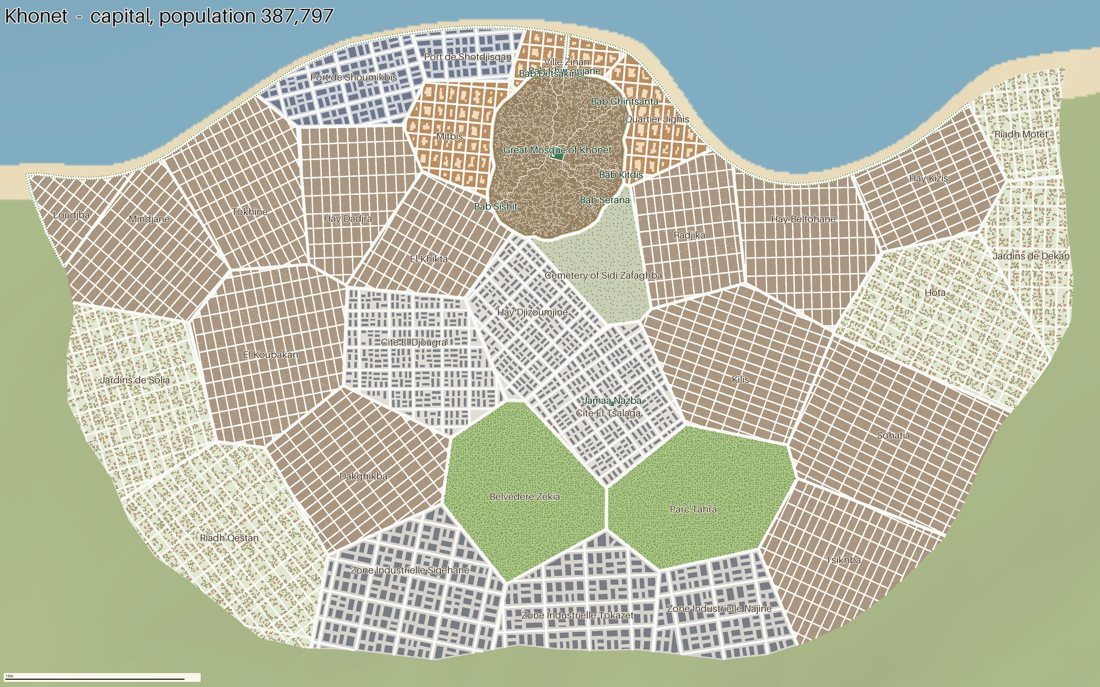
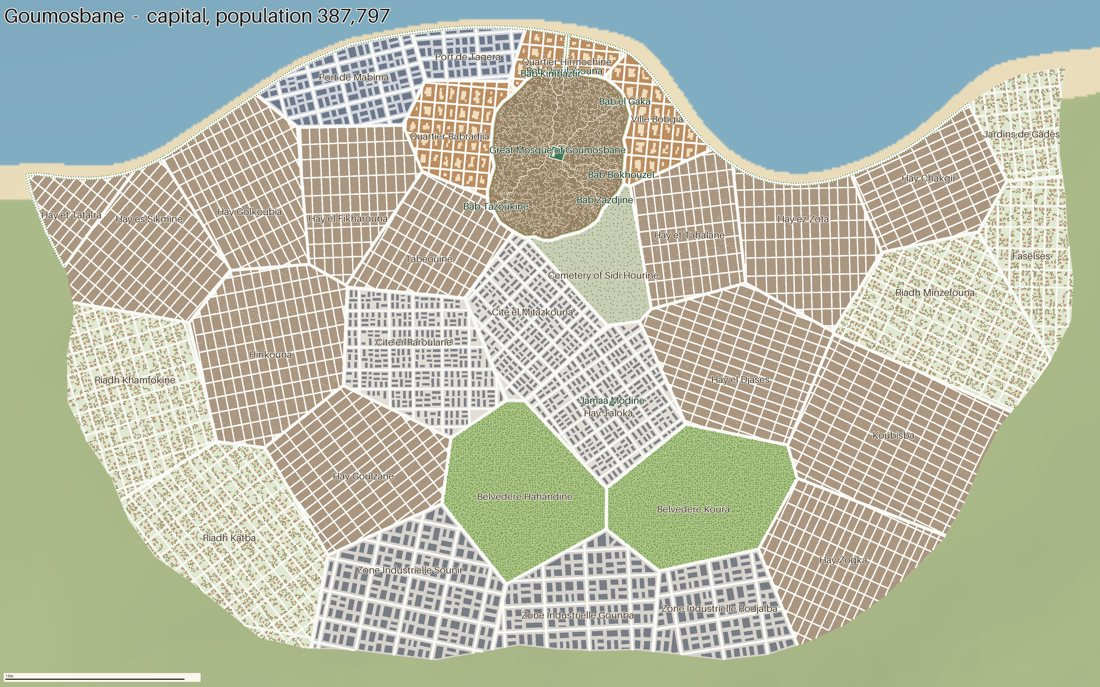
Names: authentic North African patterns; roadmap for interiors
Place names now follow Maghrebi toponymy instead of generic syllables:
Tunisian/French spelling (ch, dj, gh, kh, ou), Arabic-style endings,
Berber Ta-...-t names, prefixes such as Ksar, Menzel, Kalaat, Zaouiet,
compounds such as "el Kebir", and the Arabic article joined the North
African way (el Kef, es Souk, ech Chott). Spellings that read as
foreign (sh, ts, q, doubled letters, heavy clusters) are rejected, and
real Maghreb towns are never generated. A test guards this. Geometry
is unchanged because names use their own random stream.

Roadmap: section H (interiors on demand, furnishing, street life, hero
scenes) and D5 (names in Arabic and Latin script). README pictures
refreshed with the new names.

Claude-Session: https://claude.ai/code/session_01HrPARdqxfBeg8N4TW584qt

diff --git a/citygen/names.py b/citygen/names.py
@@ -1,12 +1,37 @@
-"""Invented place names, built from the sounds listed in the style pack."""
+"""Invented place names, built from the sounds and patterns listed in the style pack."""
 from __future__ import annotations
 
 import re
 
 import numpy as np
 
-# hard to read: a doubled consonant, or four consonants in a row
-_CLUMSY = re.compile(r"([bcdfghjklmnpqrstvwxz])\1|[^aeiouy ]{4,}")
+# hard to read or foreign-looking: a doubled letter (oo, kk), spellings North African names do not
+# use (sh, ts, q), or three consonant sounds in a row once ch, dj, gh, kh and ou count as one
+_FOREIGN = re.compile(r"([a-z])\1|sh|ts|q")
+_CLUSTER = re.compile(r"[^aeiouyU ]{3,}")
+_DIGRAPHS = (("ch", "C"), ("dj", "J"), ("gh", "G"), ("kh", "K"), ("ou", "U"))
+# Arabic "sun letters" as spelled in North African French: el + Souk -> es Souk, el + Chott -> ech Chott
+_SUN = ("ch", "t", "d", "r", "z", "s", "n", "l")
+
+
+def _clumsy(name: str) -> bool:
+    low = name.lower()
+    if _FOREIGN.search(low):
+        return True
+    for pair, one in _DIGRAPHS:
+        low = low.replace(pair, one)
+    return bool(_CLUSTER.search(low))
+
+
+def article(word: str) -> str:
+    """The Arabic article joined the North African way: el Kef, but es Souk, ech Chott, er Rmel."""
+    w = word.lower()
+    if w.startswith("dj"):
+        return "el"
+    for letter in _SUN:
+        if w.startswith(letter):
+            return "e" + letter
+    return "el"
 
 
 class NameMaker:
@@ -14,25 +39,31 @@ class NameMaker:
         self.n = style["names"]
         self.rng = rng
         self.used: set[str] = set()
+        self.avoid = {a.lower() for a in self.n.get("avoid", [])}
 
     def _pick(self, seq):
         return seq[int(self.rng.integers(len(seq)))]
 
+    def _syllable(self, coda_chance: float = 0.45) -> str:
+        n = self.n
+        coda = self._pick(n["codas"]) if self.rng.random() < coda_chance else ""
+        return self._pick(n["onsets"]) + self._pick(n["vowels"]) + coda
+
     def _core(self) -> str:
         n = self.n
+        if self.rng.random() < float(n.get("berber_chance", 0.0)):
+            return ("ta" + self._syllable(0.6) + self._pick(n["berber_endings"])).capitalize()
         syllables = 2 if self.rng.random() < 0.6 else 3
-        parts = []
-        for _ in range(syllables - 1):
-            coda = self._pick(n["codas"]) if self.rng.random() < 0.45 else ""
-            parts.append(self._pick(n["onsets"]) + self._pick(n["vowels"]) + coda)
+        parts = [self._syllable() for _ in range(syllables - 1)]
         parts.append(self._pick(n["onsets"]) + self._pick(n["endings"]))
         return "".join(parts).capitalize()
 
     def core(self) -> str:
-        """A fresh name nobody else in this world uses yet."""
+        """A fresh name nobody else in this world uses yet, and no real town has."""
         for _ in range(200):
             name = self._core()
-            if name not in self.used and 4 <= len(name) <= 11 and not _CLUMSY.search(name.lower()):
+            low = name.lower()
+            if name not in self.used and 4 <= len(name) <= 11 and not _clumsy(name) and low not in self.avoid:
                 self.used.add(name)
                 return name
         name = self._core() + self._pick(self.n["endings"])
@@ -45,13 +76,23 @@ class NameMaker:
         return stem + self._pick(self.n["country_endings"])
 
     def settlement(self, kind: str) -> str:
+        n = self.n
         core = self.core()
-        chance = float(self.n.get("prefix_chance", {}).get(kind, 0.0))
-        prefixes = self.n.get("prefixes", {}).get(kind, [])
-        if prefixes and self.rng.random() < chance:
-            return f"{self._pick(prefixes)} {core}"
+        roll = self.rng.random()
+        prefix_chance = float(n.get("prefix_chance", {}).get(kind, 0.0))
+        compound_chance = float(n.get("compound_chance", {}).get(kind, 0.0))
+        prefixes = n.get("prefixes", {}).get(kind, [])
+        if prefixes and roll < prefix_chance:
+            prefix = self._pick(prefixes)
+            if prefix in n.get("article_prefixes", []) and self.rng.random() < float(n.get("article_chance", 0.0)):
+                return f"{prefix} {article(core)} {core}"
+            return f"{prefix} {core}"
+        if n.get("descriptors") and roll < prefix_chance + compound_chance:
+            desc = self._pick(n["descriptors"])
+            return f"{core} {article(desc)} {desc}"
         return core
 
     def district(self, kind: str) -> str:
         templates = self.n.get("districts", {}).get(kind, ["{n}"])
-        return self._pick(templates).format(n=self.core())
+        core = self.core()
+        return self._pick(templates).format(n=core, a=article(core))

diff --git a/tests/test_citygen.py b/tests/test_citygen.py
@@ -121,3 +121,16 @@ def test_cli_list(capsys):
     main(["list", "--quick"])
     out = capsys.readouterr().out
     assert "capital" in out and "village" in out
+
+
+def test_names_sound_north_african():
+    from citygen.config import load_style
+    from citygen.names import NameMaker
+    style = load_style("maghreb")
+    maker = NameMaker(style, stream(3, "names-test"))
+    avoid = {a.lower() for a in style["names"]["avoid"]}
+    for kind in ("village", "town", "city"):
+        for _ in range(150):
+            name = maker.settlement(kind).lower()
+            assert not any(foreign in name for foreign in ("sh", "ts", "q", "oo")), name
+            assert not set(name.split()) & avoid, name

diff --git a/docs/ROADMAP.md b/docs/ROADMAP.md
@@ -7,7 +7,7 @@ How to run one: open Claude Code in this folder and say
 Every task also requires: `python -m pytest -q` passes, `python -m citygen build --quick`
 finishes, tunable numbers go in the style pack, and the task is ticked here when done.
 
-Suggested order: A0, C1, A4, A3, A1, B1, B2, C3, D1, then anything you like.
+Suggested order: A0, C1, H1, H2, H3, H4, A4, A3, A1, B1, B2, C3, D1, D5, then anything you like.
 
 ## Done (v0.1)
 
@@ -115,6 +115,9 @@ Suggested order: A0, C1, A4, A3, A1, B1, B2, C3, D1, then anything you like.
   legend, compass rose and scale, ready for print or a book.
 - [ ] **D3 Canon for everything** (S) - Extend `[canon]` in world files to pin district names,
   populations and landmark names; the gazetteer marks pinned facts.
+- [ ] **D5 Names in Arabic and Latin** (M) - Build every name from syllables that have both an
+  Arabic spelling and a French/English transliteration, and store both, so maps, games and books
+  work in Arabic, French and English (as Tounes Rush does).
 - [ ] **D4 Timeline and factions** (M) - A generated history: events per era tied to real
   places in the world (founding, sieges, trade booms), and factions with seats in cities.
 
@@ -124,6 +127,27 @@ Suggested order: A0, C1, A4, A3, A1, B1, B2, C3, D1, then anything you like.
   parallel, report disk size and time, document results for 64 and 128 km.
 - [ ] **E2 Faster noise** (M) - Cache terrain heights per tile and vectorize hot paths so a
   256 km country stays practical.
+
+## H. Inside the houses, and rich streets
+
+This scales because nothing is stored: an interior, or the clutter of a street, is generated only
+when a scene, a game or a picture needs it, and it is always the same for the same seed. A
+studio fills a few rooms by hand; rules fill every one of the 40,000 houses on demand.
+
+- [ ] **H1 Interiors on demand** (L, Opus medium for the design, then Sonnet) -
+  `python -m citygen interior BUILDING` builds the inside of any building. Courtyard houses get a
+  bent entrance (skifa), the courtyard (wast ed dar), rooms around it, a kitchen and stairs to the
+  roof terrace; apartment blocks get flats on every floor. Doors and windows match the facade.
+  Output: one .glb plus a JSON list of rooms.
+- [ ] **H2 Furnishing** (L) - Furniture and objects per room type from the kit (A0): banquettes,
+  carpets (klim, mergoum), chests, low tables, lanterns, pottery, beds; fridge and TV in modern
+  flats. A `density` setting: sparse, lived-in, extremely full.
+- [ ] **H3 Street life** (M) - Props along streets by district: market stalls with goods, awnings,
+  crates, carts, plants, lamps, cables, laundry lines, cats, parked mopeds and cars.
+  Tile-local and deterministic.
+- [ ] **H4 Hero scenes** (M) - `python -m citygen scene` exports one house or one street block at
+  maximum detail (H1 + H2 + H3 + A0) as a single .glb or .blend for a story scene, a trailer or a
+  game level, while the rest of the world stays light.
 
 ## F. More styles (ideas from brainstorming, after A and B)
 
